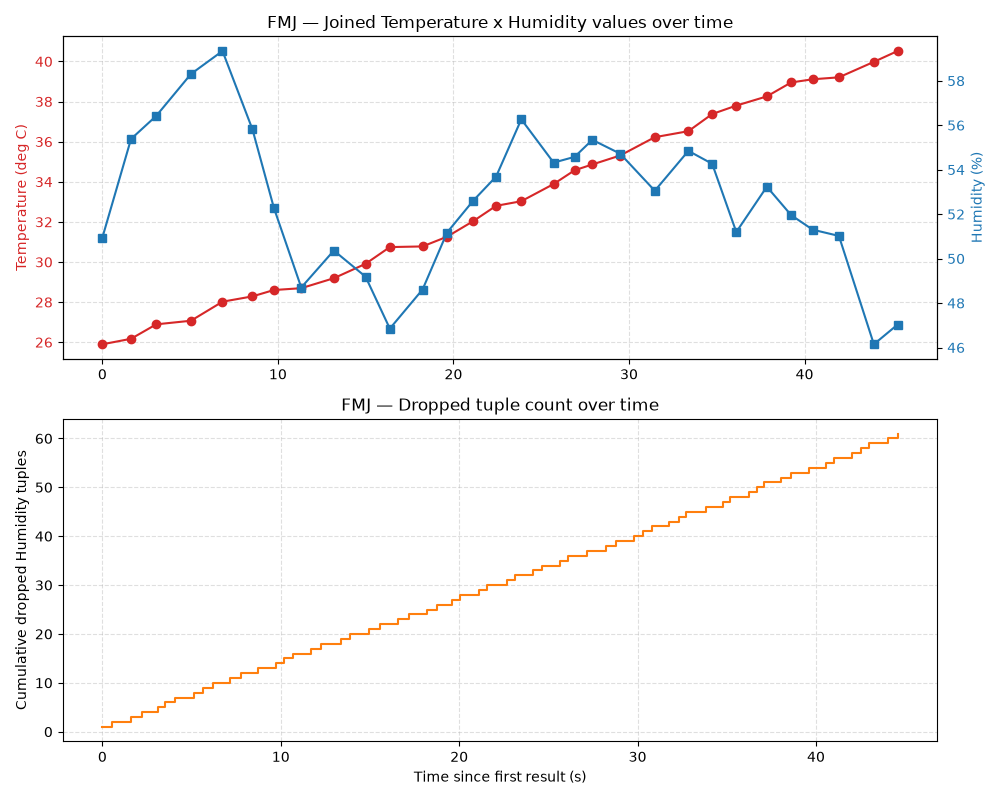
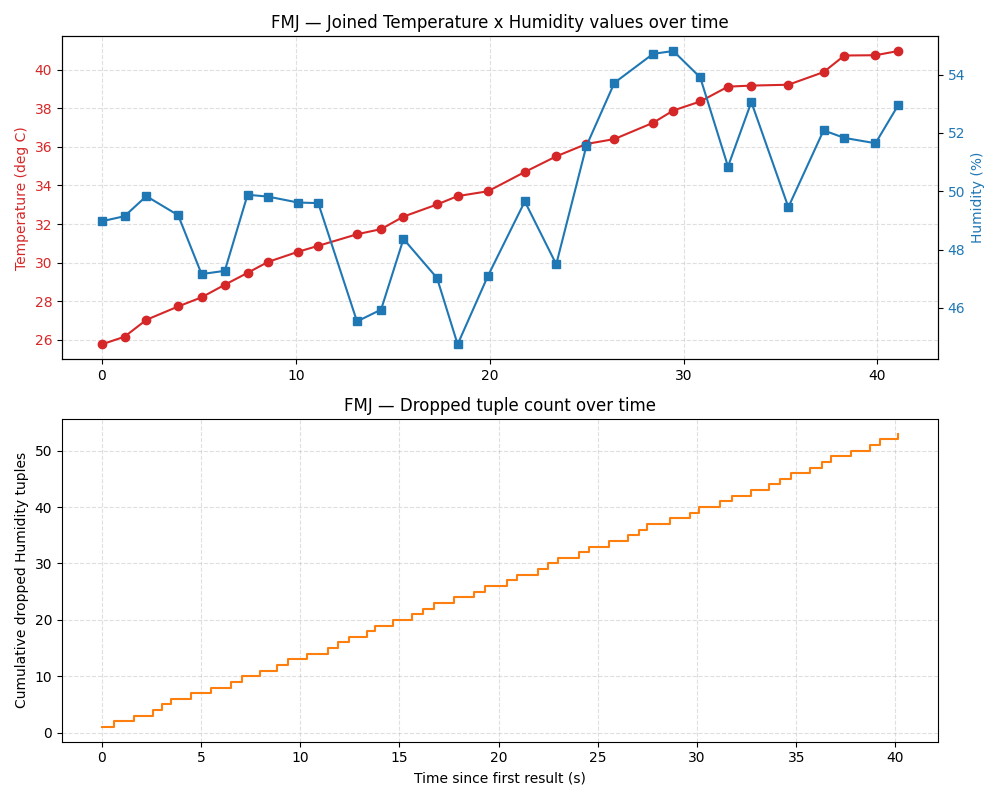
ran fuzzy_merge_join_graph to generate the fmj_plot. Updated bufferless_fuzzy_merge_join to match the behavior to the one described in the thesis of mark lukas

diff --git a/bufferless_fuzzy_merge_join.py b/bufferless_fuzzy_merge_join.py
@@ -2,9 +2,9 @@
 
 import threading
 import time
-from datetime import datetime
 import random
 import logging
+from collections import deque
 
 from air_pollution_source import air_pollution_source
 from stream import stream
@@ -22,52 +22,79 @@ def sink(iStream):
 # weather data timestamp 1500
 # air pollution timestamp 1501
 
-def bufferless_fuzzy_merge_join(dominant_stream, recessive_stream, out_stream):
+def bufferless_fuzzy_merge_join(dominant_stream, nondominant_stream, out_stream):
 	"""
-	Bufferloser Fuzzy-Merge-Join based on increasing Timestamps.
-	The dominant Stream delivers a tuple, and the recessive Stream delivers the
-	next matching tuple with a Timestamp >= dominantTimestamp.
+	Bufferless fuzzy merge join based on increasing timestamps.
+	The dominant stream is the faster stream. The nondominant stream is the slower
+	stream. Each dominant tuple is joined with the most recent nondominant tuple
+	that has a timestamp <= dominant timestamp. If no partner exists, the dominant
+	tuple is dropped.
+
+	Each tuple may only be used once in the join.
 	"""
+	pending_nondominant = deque()
+
 	while True:
-		dominant_item = dominant_stream.get()
-		#logging.debug("join dominant tuple %s", dominant_item)
+		# Drain any available nondominant tuples into the pending buffer.
 		while True:
-			recessive_candidate = recessive_stream.inspect()
-			if recessive_candidate is None:
-				time.sleep(0.05)
-				continue
-			if recessive_candidate[0] < dominant_item[0]:
-				dropped = recessive_stream.get()
-				#logging.debug("drop stale recessive tuple %s", dropped)
-				continue
-			recessive_item = recessive_stream.get()
-			joined_item = (
-				dominant_item[0],
-				dominant_item[1],
-				recessive_item[0],
-				recessive_item[1],
-			)
-			logging.info("joined tuple: %s", joined_item)
-			out_stream.put_force(joined_item)
-			break
+			nondominant_candidate = nondominant_stream.inspect()
+			if nondominant_candidate is None:
+				break
+			pending_nondominant.append(nondominant_stream.get())
+
+		# If no dominant tuple is ready, wait until one arrives.
+		dominant_candidate = dominant_stream.inspect()
+		if dominant_candidate is None:
+			time.sleep(0.05)
+			continue
+
+		dominant_item = dominant_stream.get()
+		dominant_ts = dominant_item[0]
+
+		if len(pending_nondominant) == 0:
+			logging.info("dropped dominant tuple %s because no nondominant partner was available", dominant_item)
+			continue
+
+		# Find the most recent nondominant tuple with ts <= dominant_ts.
+		partner_index = None
+		for idx in range(len(pending_nondominant) - 1, -1, -1):
+			if pending_nondominant[idx][0] <= dominant_ts:
+				partner_index = idx
+				break
+
+		if partner_index is None:
+			logging.info("dropped dominant tuple %s because no earlier nondominant tuple exists", dominant_item)
+			continue
+
+		nondominant_item = pending_nondominant[partner_index]
+		del pending_nondominant[partner_index]
+
+		joined_item = (
+			dominant_item[0],
+			dominant_item[1],
+			nondominant_item[0],
+			nondominant_item[1],
+		)
+		logging.info("joined tuple: %s", joined_item)
+		out_stream.put_force(joined_item)
 
 
 logging.basicConfig(level=logging.DEBUG, format='[%(levelname)s] (%(threadName)-10s) %(message)s')
 
 # define two streams with different sizes
-luftverschmutzung_stream = stream("Luftverschmutzung Stream", 10)
-wetter_stream = stream("Wetter Stream", 10)
+air_pollution_stream = stream("Air Pollution Stream", 10)
+weather_stream = stream("Weather Stream", 10)
 # the output stream for the join results
 merge_stream = stream("Join Stream", 10)
 
 # create threads for three operators 2 sources and one join operator and one sink
-luftverschmutzung_thread = threading.Thread(name='luftverschmutzung', target=air_pollution_source, args=(luftverschmutzung_stream,))
-wetter_thread = threading.Thread(name='wetter', target=weather_source, args=(wetter_stream,))
-join_thread = threading.Thread(name='join', target=bufferless_fuzzy_merge_join, args=(wetter_stream, luftverschmutzung_stream, merge_stream,))
+air_pollution_thread = threading.Thread(name='air_pollution', target=air_pollution_source, args=(air_pollution_stream,))
+weather_thread = threading.Thread(name='weather', target=weather_source, args=(weather_stream,))
+join_thread = threading.Thread(name='join', target=bufferless_fuzzy_merge_join, args=(air_pollution_stream, weather_stream, merge_stream,))
 sink_thread = threading.Thread(name='sink', target=sink, args=(merge_stream,))
 
-luftverschmutzung_thread.start()
-wetter_thread.start()
+air_pollution_thread.start()
+weather_thread.start()
 join_thread.start()
 sink_thread.start()
 